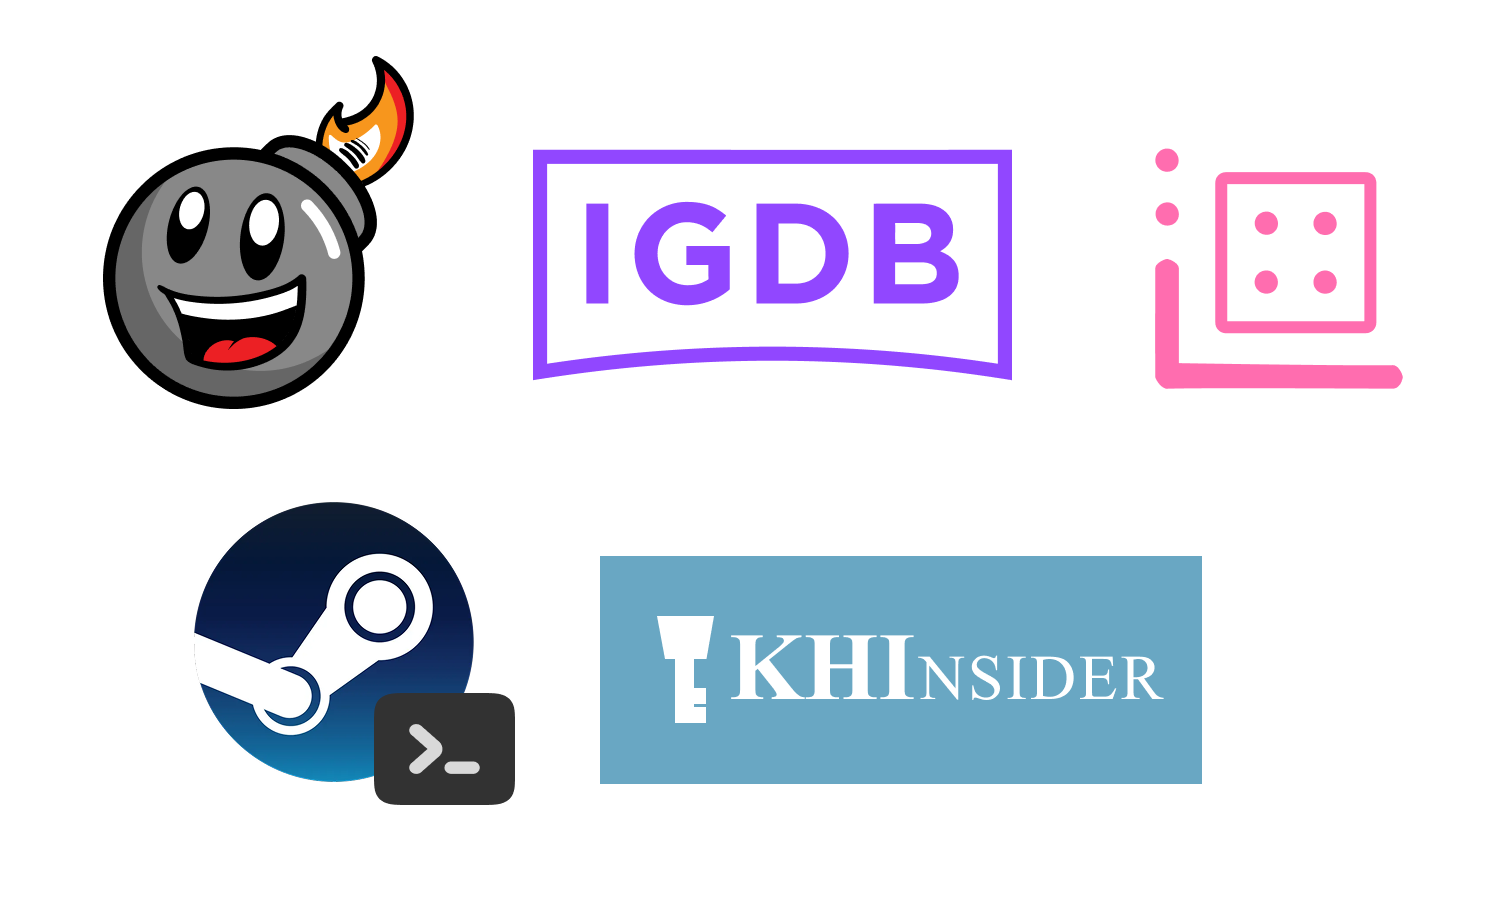
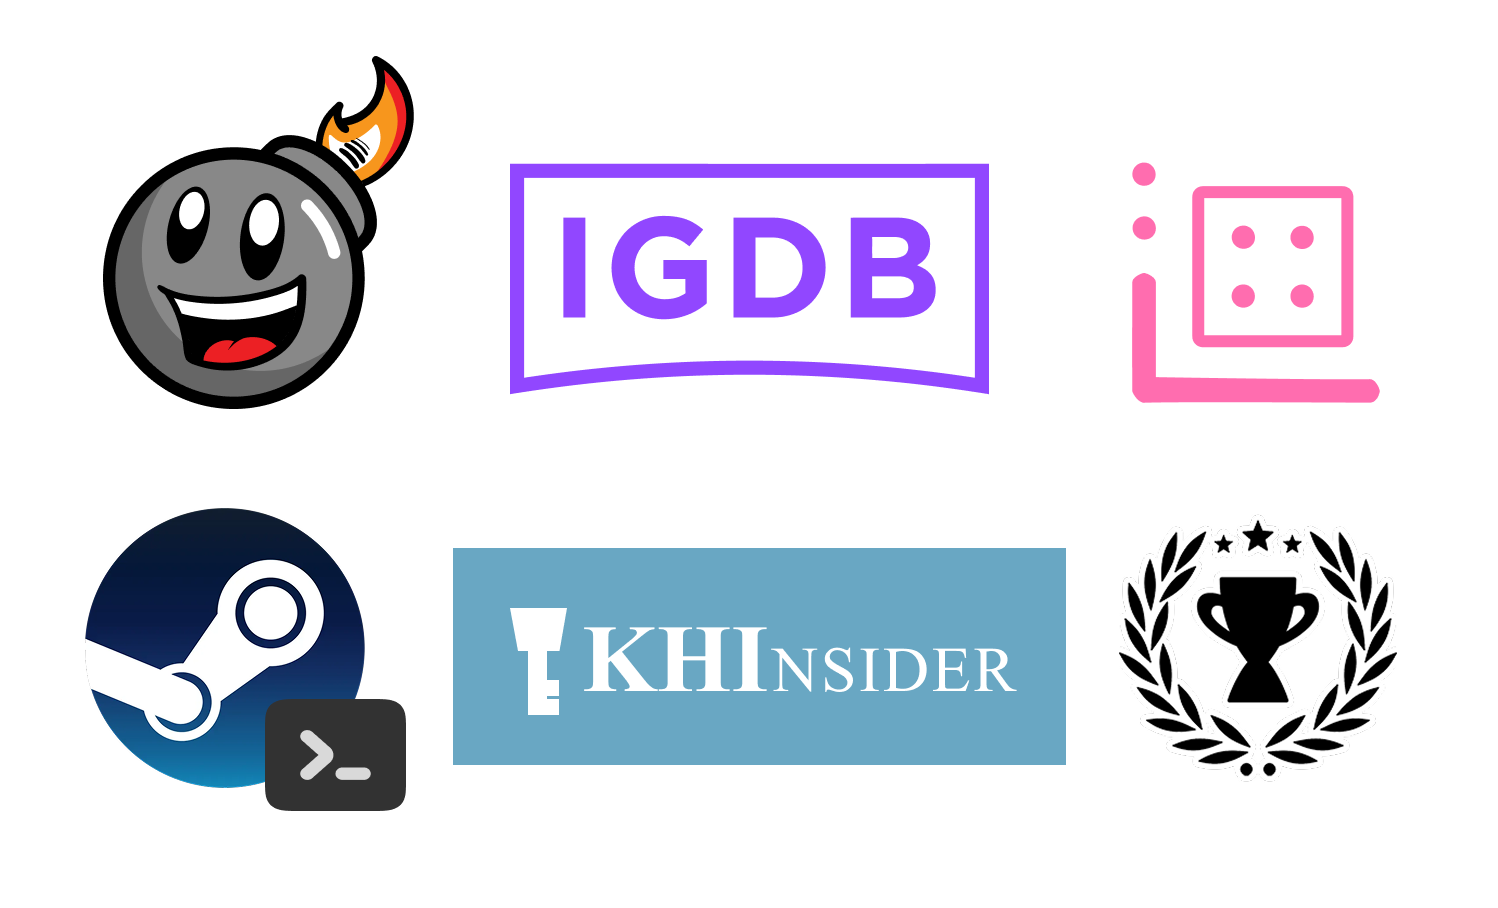
docs: update integrations

Changed region(s): [[0.0307, 0.5551, 0.9519, 0.8943], [0.3378, 0.1542, 0.6756, 0.4317], [0.737, 0.1542, 0.9519, 0.4626]]

diff --git a/README.md b/README.md
@@ -211,10 +211,16 @@ These languages come with the app by default:
     <td><strong>KHInsider</strong></td>
     <td>Game soundtrack library for listening and downloading tracks from.</td>
   </tr>
+  <tr>
+    <td><strong>Achievement Watcher</strong></td>
+    <td>Achievement tracking and viewing with Achievement Watcher by xan105.</td>
+  </tr>
 </table>
 
-## 🖼 Preview
+## 🖼 Preview App Pages
 
+<details>
+<summary>Dropdown all pages</summary>
 <div style="display: flex; flex-wrap: wrap; justify-content: center;">
   <div style="margin: 1%; width: 24%;">
     <h3 style="text-align: center;">Home Page</h3>
@@ -249,6 +255,7 @@ These languages come with the app by default:
     <img src="./readme/profile.png" width="100%"/>
   </div>
 </div>
+</details>
 
 ## 📦 The Ascendara Installer
 
